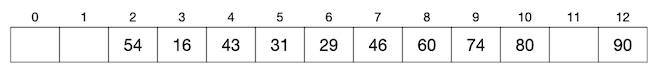
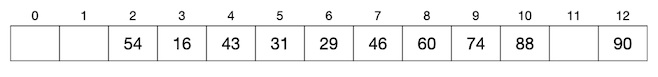
20200720_0007draft_333_writing

diff --git a/source/ch03/sec03/332_hash_2.rst b/source/ch03/sec03/332_hash_2.rst
@@ -1,4 +1,4 @@
-冲突处理与实用的哈希表
+冲突处理：冲突探测法
 ++++++++++++++++++++++
 
 要实现一个能解决哈希冲突，并能尽可能充分地利用起底层数组空间的哈希表并不是一件容易的事情，有许多相互纠缠项目矛盾的因素需要权衡。
@@ -26,7 +26,7 @@
 
 可以看出，今后如果要在表中按键值29查找或删除数据项，同样要从哈希值所指示的位置(3)开始向后探测，前后总共探测4次抵达位置(6)就能访问到这个数据项。
 
-接着我们再插入键值为80的数据项，哈希值为10，没有冲突，一次探测完成插入，如下图所示：
+接着我们再插入键值为88的数据项，哈希值为10，没有冲突，一次探测完成插入，如下图所示：
 
 .. image:: ../../images/332_hash_3.png
 
@@ -84,7 +84,8 @@
 
 为什么要这么麻烦呢？为什么上一节的简单哈希表就能直接往里填数据呢？这是因为底层数组的每一个元素都需要能够分辨它是空的还是满的。在上一节的简单例子中我们的数据是\ :emphasis:`正整数`\ ，即不会有负数也不会有零，所以我们可以用特殊值零来表示元素位置上是不是空的。但是这里（大多数实际情况下）我们没有特殊值可以用了，无论元素中的数值是什么，我们都无法判断这个位置是不是空的。采用指针的方式这个问题就好解决了，指针有特殊值，即空指针 ``NULL``\ ，它的值是零，可以用来表示空位置，因为实际分配到的动态内存地址指针永远不可能为 ``NULL``\ 。
 
-**线性冲突探测哈希表的实现**
+线性冲突探测哈希表的实现
+^^^^^^^^^^^^^^^^^^^^^^^^
 
 现在我们可以来实现这样一个采用线性冲突探测的哈希表了。首先我们还是把整个哈希表的数据和功能整合成一个结构定义，同样的采用数据封装的惯例，并且把简单的功能直接在结构定义中内联实现。我们要实现的功能包括：
 
@@ -139,7 +140,8 @@
 
    完成哈希表 ``HashTable`` 剩余的两个功能的函数代码编写并进行测试。
 
-**填充因子详解**
+填充因子详解
+^^^^^^^^^^^^
 
 上面我们已经完成了一个虽然简单但是完整而且可以实用的哈希表的例子，采用线性冲突探测技术来解决哈希冲突问题。不过不难想象，随着表中数据项数量的不断增多，哈希冲突的情况也会越来越多，数据项在填入表中时的探测次数也会越来越大。
 
@@ -183,12 +185,4 @@
 由于这是一个利用随机数来进行测试的随机实验，所以每一次运行得到的结果都不尽相同。但是多运行几次就可以发现，得到的结果数值大同小异，说明平均探测次数和填充因子之间是有符合统计意义的明确规律的。再用不同的底层数组长度 ``MAXN`` 值试试，可以发现数据还是差不多的，统计规律仍然是一样的。所以这样的实验结果是有效的，很明显，在填充因子 :math:`\alpha\le0.7` 的时候，平均探测次数小于2，而且增长缓慢。:math:`0.7\le\alpha\le0.8` 这一段里，平均探测次数会从2左右增加到3左右，一般不超过3.2，还是完全可以接受的，但是增长速度已经开始提起来了。而一旦超过这个范围，即 :math:`\alpha\ge0.8` 之后，平均探测次数就开始飞速增长，到底层数组完全填满，:math:`\alpha=1.0` 时平均探测次数就实现了一次暴涨式的飞跃。
 
 这就是填充因子上限要控制在0.7到0.8之间的原因，到底要控制在0.7还是0.8还是它们中间的某个点，要根据内存空间和数据量来确定。在算法题目中，一般很少直接用到哈希表，如果遇到了基本上也都可以根据题目给出的数据情况来进行预判，在编程时可以事先确定底层数组的长度以达到控制填充因子上限的效果。比如题目中告诉我们最多有可能有 :math:`n` 项数据，而我们希望将填充因子控制在0.7以内，那么我们把底层数组的长度设置为一个略大于 :math:`n/0.7` 的质数即可。
-
-
-链式哈希表
-^^^^^^^^^^^^
-
-有了冲突探测技术就够了吗？采用冲突探测技术实现的哈希表存在什么缺点吗？当然有，这种哈希表最大的问题是，底层数组很难实现动态大小。如果事先无法预知数据量，也就无法预先确定底层数组的大小。而一旦填充因子达到上限之后还有新数据项要添加进来，那么要么牺牲效率，要么设法扩张底层数组。但是扩张底层数组的长度有几个难点：一是扩多少很难定，二是找一个大质数很费时间，三是最大的问题，所有表中已有的数据项都需要重新哈希，全体搬家。所以扩张底层数组说说看容易做做看难，尤其是表本身已经很大的时候再做扩张可能会非常费时。如果干脆牺牲效率，让填充因子进一步扩大，那也最多只能到全部填满，如果数据项的数量超过了底层数组的长度还是免不了要扩张底层数组本身。
-
-所以对于那些数据量很大而且事先无法预计的场景，采用冲突探测法就显得不太合适了。这时候我们一般会使用另一种处理哈希冲突的方法，构建\ :strong:`链式哈希表`\ 。
 

diff --git a/source/ch03/sec03/333_hash_3.rst b/source/ch03/sec03/333_hash_3.rst
@@ -1,0 +1,22 @@
+冲突处理：链式哈希表
+++++++++++++++++++++
+
+有了冲突探测技术就够了吗？采用冲突探测技术实现的哈希表存在什么缺点吗？当然有，这种哈希表最大的问题是，底层数组很难实现动态大小。如果事先无法预知数据量，也就无法预先确定底层数组的大小。而一旦填充因子达到上限之后还有新数据项要添加进来，那么要么牺牲效率，要么设法扩张底层数组。但是扩张底层数组的长度有几个难点：一是扩多少很难定，二是找一个大质数很费时间，三是最大的问题，所有表中已有的数据项都需要重新哈希，全体搬家。所以扩张底层数组说说看容易做做看难，尤其是表本身已经很大的时候再做扩张可能会非常费时。如果干脆牺牲效率，让填充因子进一步扩大，那也最多只能到全部填满，如果数据项的数量超过了底层数组的长度还是免不了要扩张底层数组本身。
+
+所以对于那些数据量很大而且事先无法预计的场景，采用冲突探测法就显得不太合适了。这时候我们一般会使用另一种处理哈希冲突的方法，构建\ :strong:`链式哈希表`\ 。
+
+链式哈希表
+^^^^^^^^^^^^
+
+链式哈希表，顾名思义，就是指采用链表结构来存放数据项的哈希表。使用链式存储结构之后，每一个底层数组的元素其实都是一个单链表的头节点，初始时候都是空指针。当一个数据项的哈希值计算完成，确定了它应该存放在底层数组的哪一个位置之后，我们并不是把这个数据项直接存放在数组的这个元素里，而是把它插入到数组元素所指向的那个单链表里。通过这样的方法，所有具有相同哈希值的数据项就在该哈希值所指定的底层数组元素后面形成了一个理论上长度无限的单链表，从而让哈希表可以存放理论上无穷多的数据项。
+
+仍然采用上一节的例子，用长度为13的底层数组构建哈希表，依次存入键值为16,74,60,43,54,90,46,31,29,88,77的11个数据项。这次我们采用链式哈希表，其过程如下图所示：
+
+.. image:: ../../images/333_linked_hashtable.png
+
+**添加数据项**
+
+在链式哈希表中添加数据项非常简单，根据键值计算出哈希值，确定在底层数组中对应的位置，然后在该位置的单链表头部插入该数据项即可。这里需要注意的是插入数据项是在单链表的头部完成的，也就是说哈希值相同的数据项，后添加进来的在前，先添加进来的在后。这是为了编程的便利性，如果要按照添加顺序来保持链表中数据项的节点顺序，那么我们就需要额外为每一个单链表维护一个尾节点指针。这就会增加编程的复杂度，但是哈希表本身就不保持数据项的添加顺序，也不保证任何别的元素顺序，所以在链表中保持添加顺序没有什么意义。
+
+可以看出，不管有没有发生哈希冲突，链式哈希表的添加数据项操作都是 :math:`O(1)` 的时间复杂度，忠实地满足哈希表的设计要求。
+

diff --git a/source/ch03/330_hash.rst b/source/ch03/330_hash.rst
@@ -20,4 +20,5 @@
 
    sec03/331_hash_1
    sec03/332_hash_2
+   sec03/333_hash_3
 
